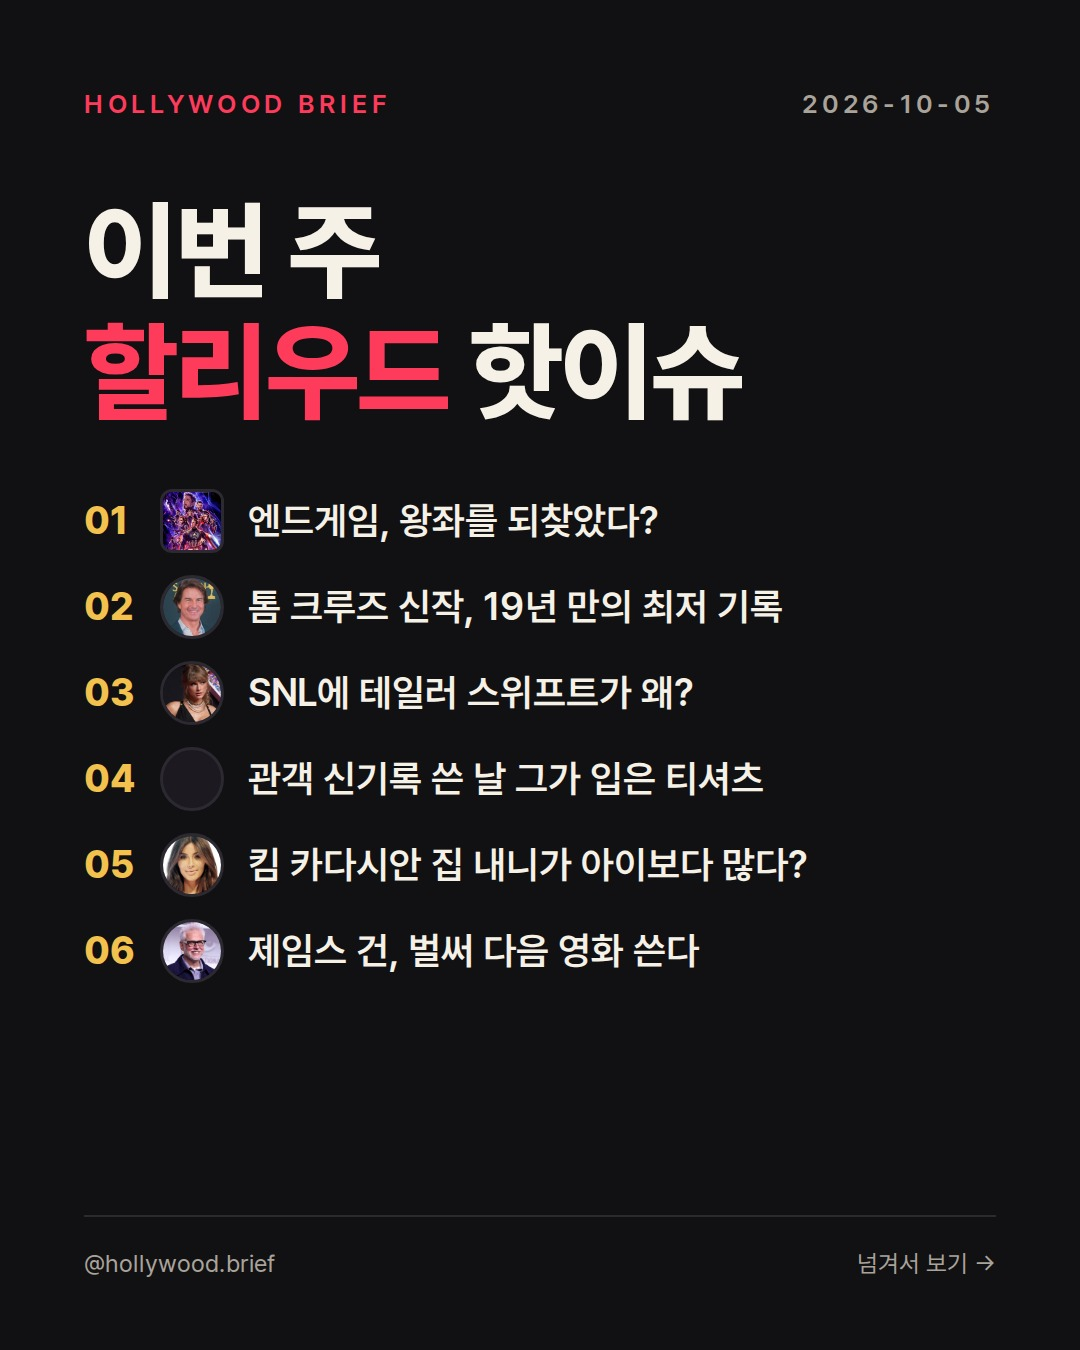
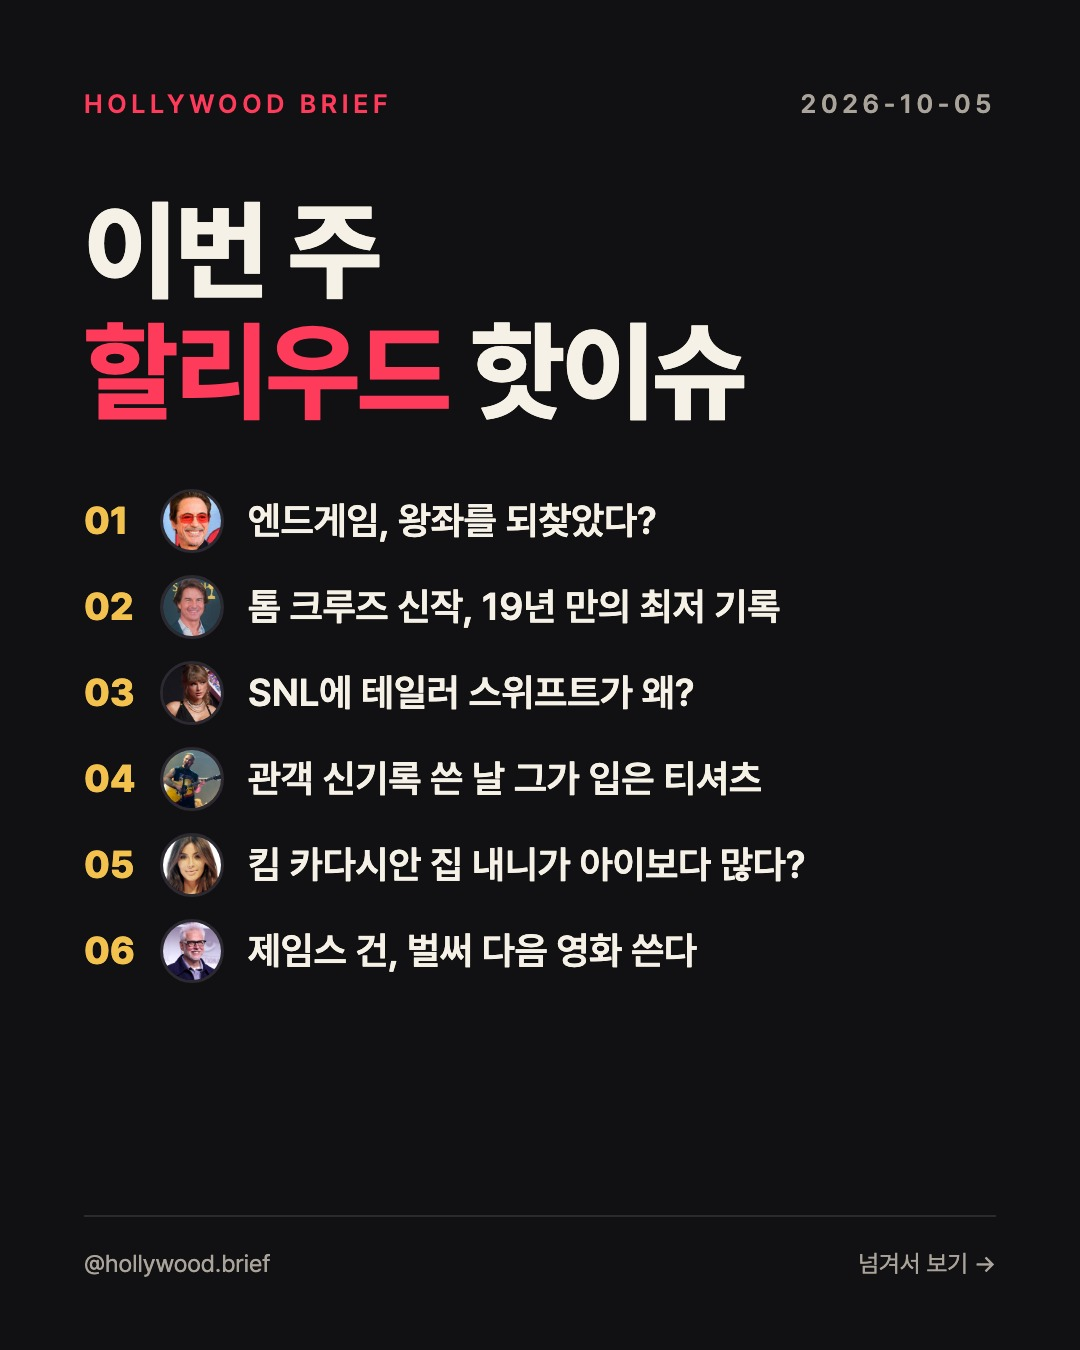
10/5 초안: 1번·4번 이미지 교체

diff --git a/drafts/2026-10-05/newsletter.html b/drafts/2026-10-05/newsletter.html
@@ -31,9 +31,9 @@
 <p class="meta">영화 · ✅ 공식 확인</p>
 
   
-  <p><img src="https://upload.wikimedia.org/wikipedia/en/0/0d/Avengers_Endgame_poster.jpg?utm_source=en.wikipedia.org&amp;utm_campaign=api&amp;utm_content=thumbnail_unscaled" alt="〈어벤져스: 엔드게임〉, 재개봉으로 역대 흥행 1위 탈환"></p>
+  <p><img src="https://thumb.wikimedia.org/wikipedia/commons/thumb/a/a9/RobertDowneyJr-byPhilipRomano7_%28cropped%29.jpg/1280px-RobertDowneyJr-byPhilipRomano7_%28cropped%29.jpg?utm_source=commons.wikimedia.org&amp;utm_campaign=imageinfo&amp;utm_content=thumbnail" alt="〈어벤져스: 엔드게임〉, 재개봉으로 역대 흥행 1위 탈환"></p>
   
-  <p class="credit">이미지: &#39;Avengers: Endgame&#39; 공식 포스터, 보도·비평 목적 인용</p>
+  <p class="credit">이미지: PhilipRomano / CC BY-SA 4.0 (위키미디어 공용, 일부 잘라서 사용)</p>
 
 <p>〈어벤져스: 엔드게임〉이 다시 전 세계 박스오피스 역대 1위 자리에 올랐어요. Deadline 보도에 따르면 누적 수익은 약 29억 2,550만 달러로, 〈아바타〉의 약 29억 2,370만 달러를 아슬아슬하게 앞섰어요.</p>
 <p>이번 역전은 루소 형제가 연출한 2019년 작품을 극장에 다시 건 재개봉 덕분이에요. 루소 형제의 다음 작품인 〈어벤져스: 둠스데이〉가 12월 18일 개봉을 앞두고 있어서, 분위기를 띄우려고 재개봉한 것으로 알려졌어요.</p>
@@ -77,6 +77,11 @@
 <hr>
 <h2>4. 잭 브라이언, &#39;Free Palestine&#39; 티 입고 공연장 관객 신기록</h2>
 <p class="meta">음악 · ✅ 공식 확인</p>
+
+  
+  <p class="pair"><img src="https://upload.wikimedia.org/wikipedia/commons/0/07/Zach_Bryan_performing_at_Crypto.com_Arena_on_23_Aug_2023_%28cropped%29.jpg?utm_source=commons.wikimedia.org&amp;utm_campaign=imageinfo&amp;utm_content=thumbnail_unscaled" alt="잭 브라이언, &#39;Free Palestine&#39; 티 입고 공연장 관객 신기록"><img src="https://thumb.wikimedia.org/wikipedia/commons/thumb/1/1a/Robert_Kraft_52918031556_o_%282%29_%28cropped%29_%28cropped%29.jpg/1280px-Robert_Kraft_52918031556_o_%282%29_%28cropped%29_%28cropped%29.jpg?utm_source=commons.wikimedia.org&amp;utm_campaign=imageinfo&amp;utm_content=thumbnail" alt="잭 브라이언, &#39;Free Palestine&#39; 티 입고 공연장 관객 신기록"></p>
+  
+  <p class="credit">이미지: Katrina Paisano / Attribution (위키미디어 공용, 일부 잘라서 사용) · Office of the Governor of Massachusetts / Public domain (위키미디어 공용, 일부 잘라서 사용)</p>
 
 <p>그래미 수상자인 컨트리 가수 잭 브라이언이 &#39;With Heaven on Tour&#39; 공연에서 로버트 크래프트 소유의 질레트 스타디움 역대 최다 관객 기록을 세웠어요. 버라이어티에 따르면 토요일 공연에 73,538명이 몰려, 이곳에서 열린 모든 행사 가운데 가장 많은 관객이 모였어요.</p>
 <p>더 화제가 된 건 그의 옷차림이에요. 잭 브라이언은 이틀 연속 &#39;Free Palestine&#39; 문구가 적힌 티셔츠를 입고 무대에 올랐어요.</p>

diff --git a/drafts/2026-10-05/newsletter.md b/drafts/2026-10-05/newsletter.md
@@ -8,9 +8,9 @@
 
 `영화` · ✅ 공식 확인
 
-![〈어벤져스: 엔드게임〉, 재개봉으로 역대 흥행 1위 탈환](https://upload.wikimedia.org/wikipedia/en/0/0d/Avengers_Endgame_poster.jpg?utm_source=en.wikipedia.org&utm_campaign=api&utm_content=thumbnail_unscaled)
+![〈어벤져스: 엔드게임〉, 재개봉으로 역대 흥행 1위 탈환](https://thumb.wikimedia.org/wikipedia/commons/thumb/a/a9/RobertDowneyJr-byPhilipRomano7_%28cropped%29.jpg/1280px-RobertDowneyJr-byPhilipRomano7_%28cropped%29.jpg?utm_source=commons.wikimedia.org&utm_campaign=imageinfo&utm_content=thumbnail)
 
-*이미지: 'Avengers: Endgame' 공식 포스터, 보도·비평 목적 인용*
+*이미지: PhilipRomano / CC BY-SA 4.0 (위키미디어 공용, 일부 잘라서 사용)*
 
 〈어벤져스: 엔드게임〉이 다시 전 세계 박스오피스 역대 1위 자리에 올랐어요. Deadline 보도에 따르면 누적 수익은 약 29억 2,550만 달러로, 〈아바타〉의 약 29억 2,370만 달러를 아슬아슬하게 앞섰어요.
 
@@ -67,6 +67,10 @@
 ## 4. 잭 브라이언, 'Free Palestine' 티 입고 공연장 관객 신기록
 
 `음악` · ✅ 공식 확인
+
+![잭 브라이언, 'Free Palestine' 티 입고 공연장 관객 신기록](https://upload.wikimedia.org/wikipedia/commons/0/07/Zach_Bryan_performing_at_Crypto.com_Arena_on_23_Aug_2023_%28cropped%29.jpg?utm_source=commons.wikimedia.org&utm_campaign=imageinfo&utm_content=thumbnail_unscaled) ![잭 브라이언, 'Free Palestine' 티 입고 공연장 관객 신기록](https://thumb.wikimedia.org/wikipedia/commons/thumb/1/1a/Robert_Kraft_52918031556_o_%282%29_%28cropped%29_%28cropped%29.jpg/1280px-Robert_Kraft_52918031556_o_%282%29_%28cropped%29_%28cropped%29.jpg?utm_source=commons.wikimedia.org&utm_campaign=imageinfo&utm_content=thumbnail)
+
+*이미지: Katrina Paisano / Attribution (위키미디어 공용, 일부 잘라서 사용) · Office of the Governor of Massachusetts / Public domain (위키미디어 공용, 일부 잘라서 사용)*
 
 그래미 수상자인 컨트리 가수 잭 브라이언이 'With Heaven on Tour' 공연에서 로버트 크래프트 소유의 질레트 스타디움 역대 최다 관객 기록을 세웠어요. 버라이어티에 따르면 토요일 공연에 73,538명이 몰려, 이곳에서 열린 모든 행사 가운데 가장 많은 관객이 모였어요.
 
